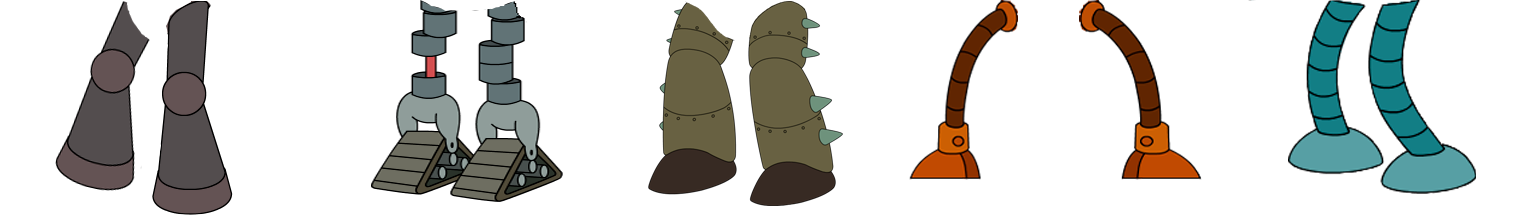
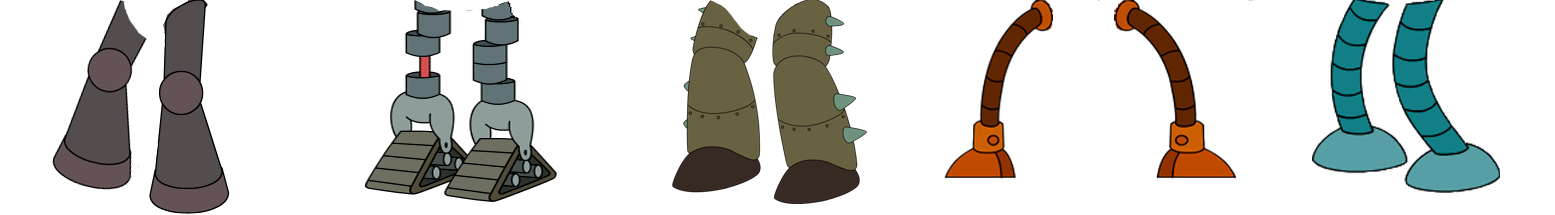
spritesForUnit/feature: created sprites for players, modified figntUnit class

diff --git a/src/js/unitConfig.js b/src/js/unitConfig.js
@@ -5,7 +5,42 @@ export default {
 		adjectives: ['Умный', 'Красивый', 'Бесстрашный', 'Привлекательный', 'Непобедимый', 'Непоколебимый', 'Милый', 'Воинственный', 'Железный', 'Непробиваемый', 'Стойкий', 'Неуязвимый', 'Пушистый', 'Талантливый', 'Ловкий', 'Сообразительный', 'Смелый', 'Титановый', 'Пуленепробиваемый', 'Суперский', 'Мастерский', 'Лапушный', 'Мимимишный', 'Зайчиковый', 'Обалденный', 'Богоподобный', 'Искренний', 'Кайфовый'],
 		hp: 100,
 		sprites: {
-			path: ''
+			head: {
+				path: 'src/img/player/heads/heads.png',
+				width: 168,
+				height: 86,
+				sX: [0, 168, 336, 504, 672, 840, 1008, 1176],
+				sY: 0,
+				dX: 0,
+				dY: 0,
+			},
+			body: {
+				path: 'src/img/player/bodies/bodies.png',
+				width: 168,
+				height: 103,
+				sX: [0, 168, 336, 504, 672, 840],
+				sY: 0,
+				dX: 0,
+				dY: 60,
+			},
+			hands: {
+				path: 'src/img/player/hands/hands.png',
+				width: 168,
+				height: 130,
+				sX: [0, 168, 336, 504, 672, 840],
+				sY: 0,
+				dX: 0,
+				dY: 65,
+			},
+			legs: {
+				path: 'src/img/player/legs/legs.png',
+				width: 168,
+				height: 112,
+				sX: [0, 168, 336, 504, 672, 840],
+				sY: 0,
+				dX: 0,
+				dY: 150,
+			}
 		}
 	},
 	monsters: {
@@ -16,31 +51,39 @@ export default {
 		sprites: {
 			head: {
 				path: 'src/img/monster/heads/heads.png',
-				width: 158,
+				width: 311,
 				height: 180,
-				sX: [0, 159, 317, 475, 633],
+				sX: [0, 311, 622, 933, 1244],
 				sY: 0,
+				dX: 0,
+				dY: 0,
 			},
 			body: {
 				path: 'src/img/monster/bodies/bodies.png',
-				width: 162,
+				width: 311,
 				height: 203,
-				sX: [0, 163, 326, 488, 651],
+				sX: [0, 311, 622, 933, 1244],
 				sY: 0,
+				dX: 0,
+				dY: 150,
 			},
 			hands: {
 				path: 'src/img/monster/hands/hands.png',
-				width: 293,
+				width: 311,
 				height: 231,
-				sX: [0, 293, 586, 879, 1172],
+				sX: [0, 311, 622, 933, 1244],
 				sY: 0,
+				dX: 0,
+				dY: 168,
 			},
 			legs: {
 				path: 'src/img/monster/legs/legs.png',
 				width: 311,
 				height: 216,
-				sX: [0, 311, 587, 898, 1209],
+				sX: [0, 311, 622, 933, 1244],
 				sY: 0,
+				dX: 0,
+				dY: 310,
 			}
 		}
 	},

diff --git a/src/js/game.js b/src/js/game.js
@@ -1,66 +1,2 @@
 import _ from 'lodash';
-
 import FightUnit from './modules/fightUnit/fightUnit';
-let unit = new FightUnit();
-
-
-//unit canvas render test
-h2.innerText = unit.name;
-const canvas = document.getElementById('canvas');
-const ctx = canvas.getContext('2d');
-const head = new Image();
-const body = new Image();
-const hands = new Image();
-const legs = new Image();
-head.src = unit.sprites.head.path;
-hands.src = unit.sprites.hands.path;
-legs.src = unit.sprites.legs.path;
-body.src = unit.sprites.body.path;
-
-let headY = 150;
-let bodyY = 300;
-let handsY = 318;
-let legsY = 460;
-let tick_count = 0;
-body.onload = function () {
-	tick();
-	requestAnimationFrame(tick);
-};
-
-function tick() {
-	if (tick_count > 25) {
-		draw();
-		tick_count = 0;
-	}
-	tick_count += 1;
-	requestAnimationFrame(tick);
-}
-
-
-function draw() {
-	ctx.clearRect(0, 0, canvas.width, canvas.height);
-	if (headY < 155) {
-		headY += 1;
-	} else {
-		headY = 150;
-	}
-	if (bodyY < 305) {
-		bodyY += 1;
-	} else {
-		bodyY = 300;
-	}
-	if (handsY > 315) {
-		handsY -= 1;
-	} else {
-		handsY = 318;
-	}
-
-	ctx.drawImage(legs, unit.sprites.legs.sX, unit.sprites.legs.sY, unit.sprites.legs.width, unit.sprites.legs.height, 420, legsY, unit.sprites.legs.width, unit.sprites.legs.height);
-	ctx.drawImage(body, unit.sprites.body.sX, unit.sprites.body.sY, unit.sprites.body.width, unit.sprites.body.height, 500, bodyY, unit.sprites.body.width, unit.sprites.body.height);
-	ctx.drawImage(head, unit.sprites.head.sX, unit.sprites.head.sY, unit.sprites.head.width, unit.sprites.head.height, 500, headY, unit.sprites.head.width, unit.sprites.head.height);
-	ctx.drawImage(hands, unit.sprites.hands.sX, unit.sprites.hands.sY, unit.sprites.hands.width, unit.sprites.hands.height, 435, handsY, unit.sprites.hands.width, unit.sprites.hands.height);
-}
-
-function render() {
-
-}

diff --git a/src/js/modules/fightUnit/fightUnit.js b/src/js/modules/fightUnit/fightUnit.js
@@ -14,15 +14,15 @@ export default class FightUnit {
 
 	generate() {
 		switch (this.type) {
-			case 'player':
-				this.generatePlayerUnit();
-				break;
-			case 'monster':
-				this.generateMonsterUnit();
-				break;
-			default:
-				this.generateMonsterUnit();
-				break;
+		case 'player':
+			this.generatePlayerUnit();
+			break;
+		case 'monster':
+			this.generateMonsterUnit();
+			break;
+		default:
+			this.generateMonsterUnit();
+			break;
 		}
 	}
 
@@ -46,8 +46,8 @@ export default class FightUnit {
 	generatePlayerUnit() {
 		this.generateUnitName(unitConfig.players.adjectives, unitConfig.players.names_1, unitConfig.players.names_2);
 		this.hp = unitConfig.players.hp * this.difficulty;
+		this.generateSprites(unitConfig.players.sprites.head, unitConfig.players.sprites.body, unitConfig.players.sprites.hands, unitConfig.players.sprites.legs);
 	}
-
 	generateUnitName(first, second, third) {
 		const firstName = first[_.random(0, first.length - 1)];
 		const secondName = second[_.random(0, second.length - 1)];

diff --git a/game.html b/game.html
@@ -45,10 +45,7 @@
     </div>
   </div>
   <script src="dist/js/game.js"></script>
-  <script>
 
-
-  </script>
 </body>
 
 </html>
